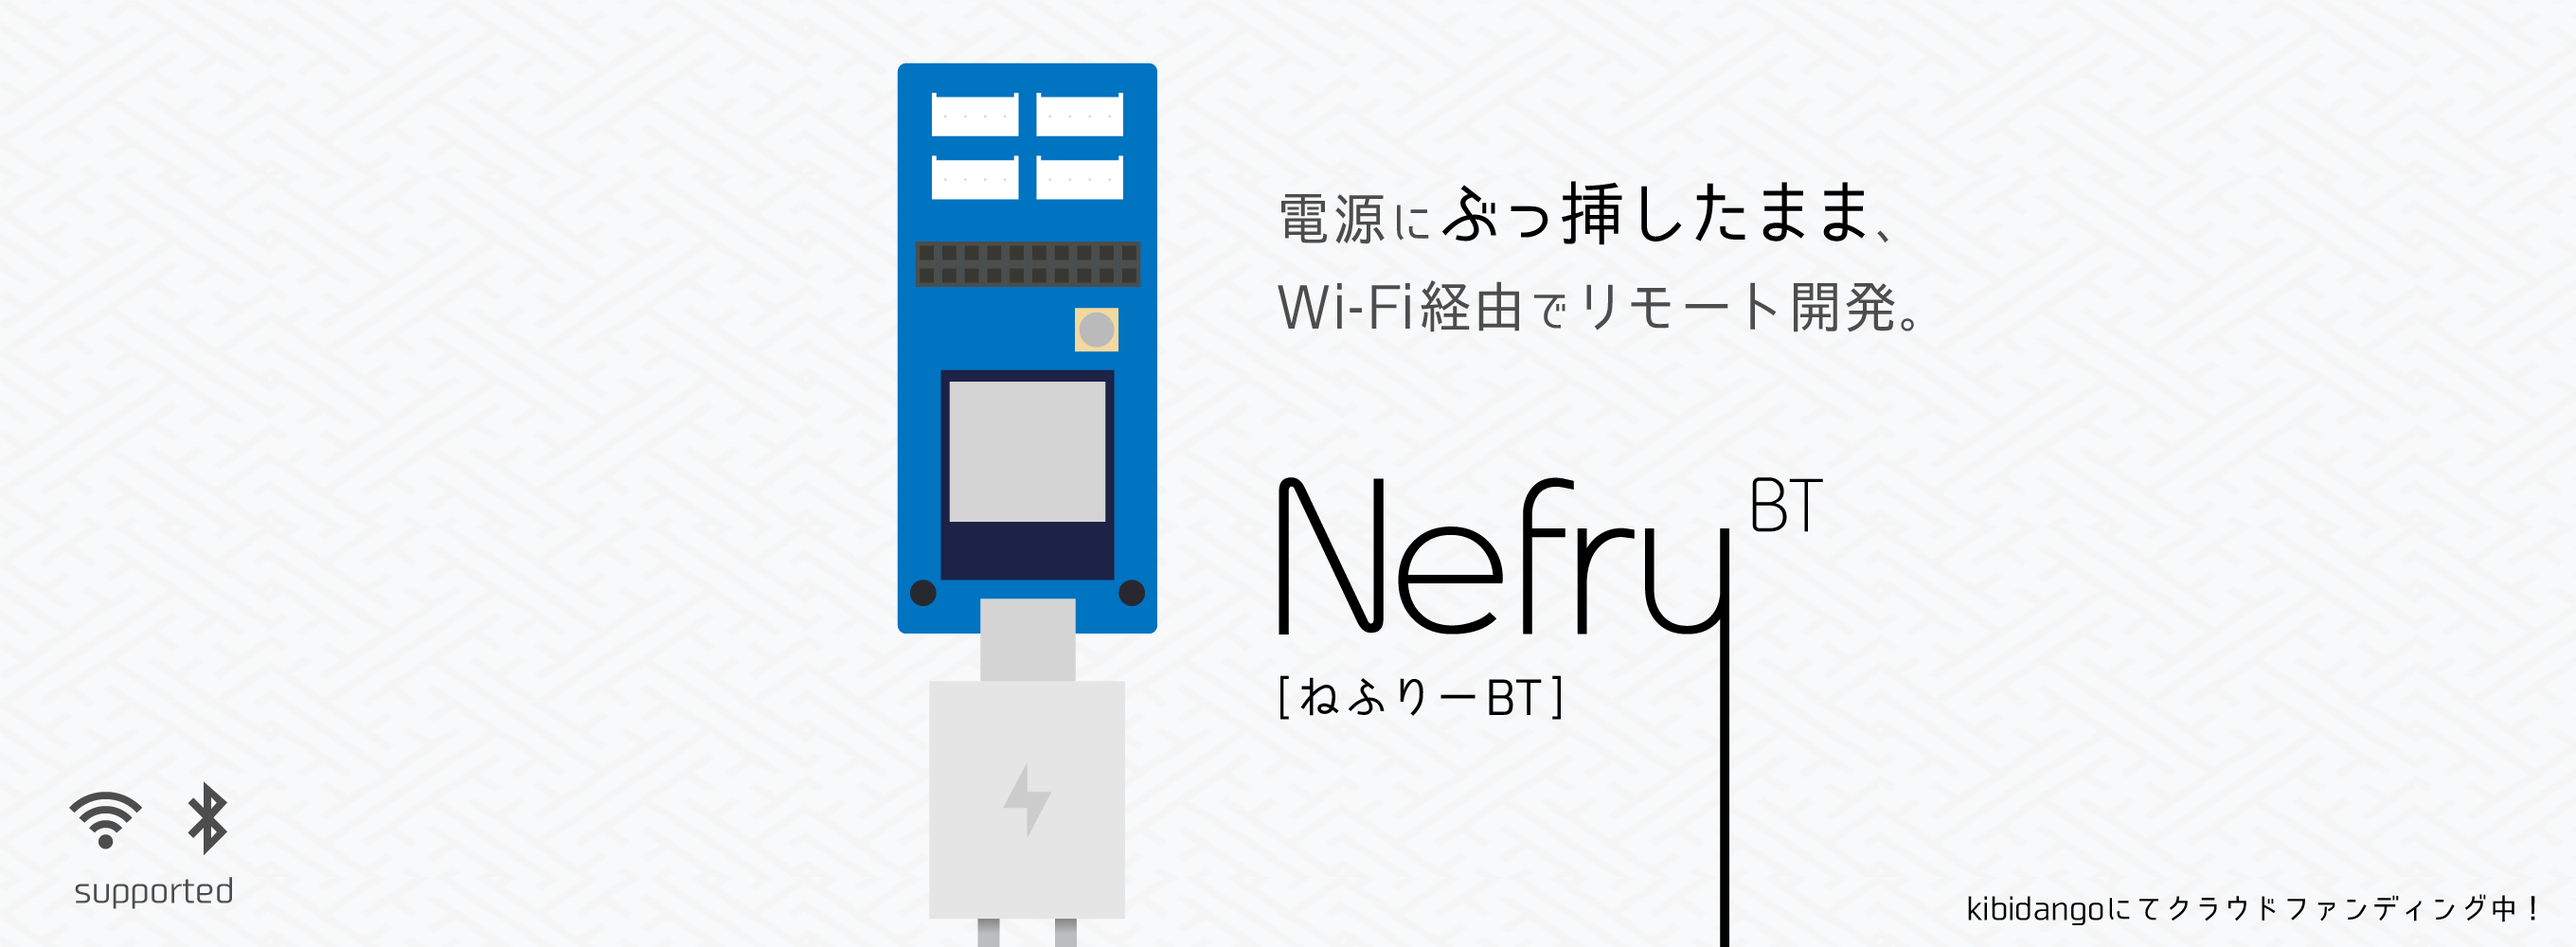
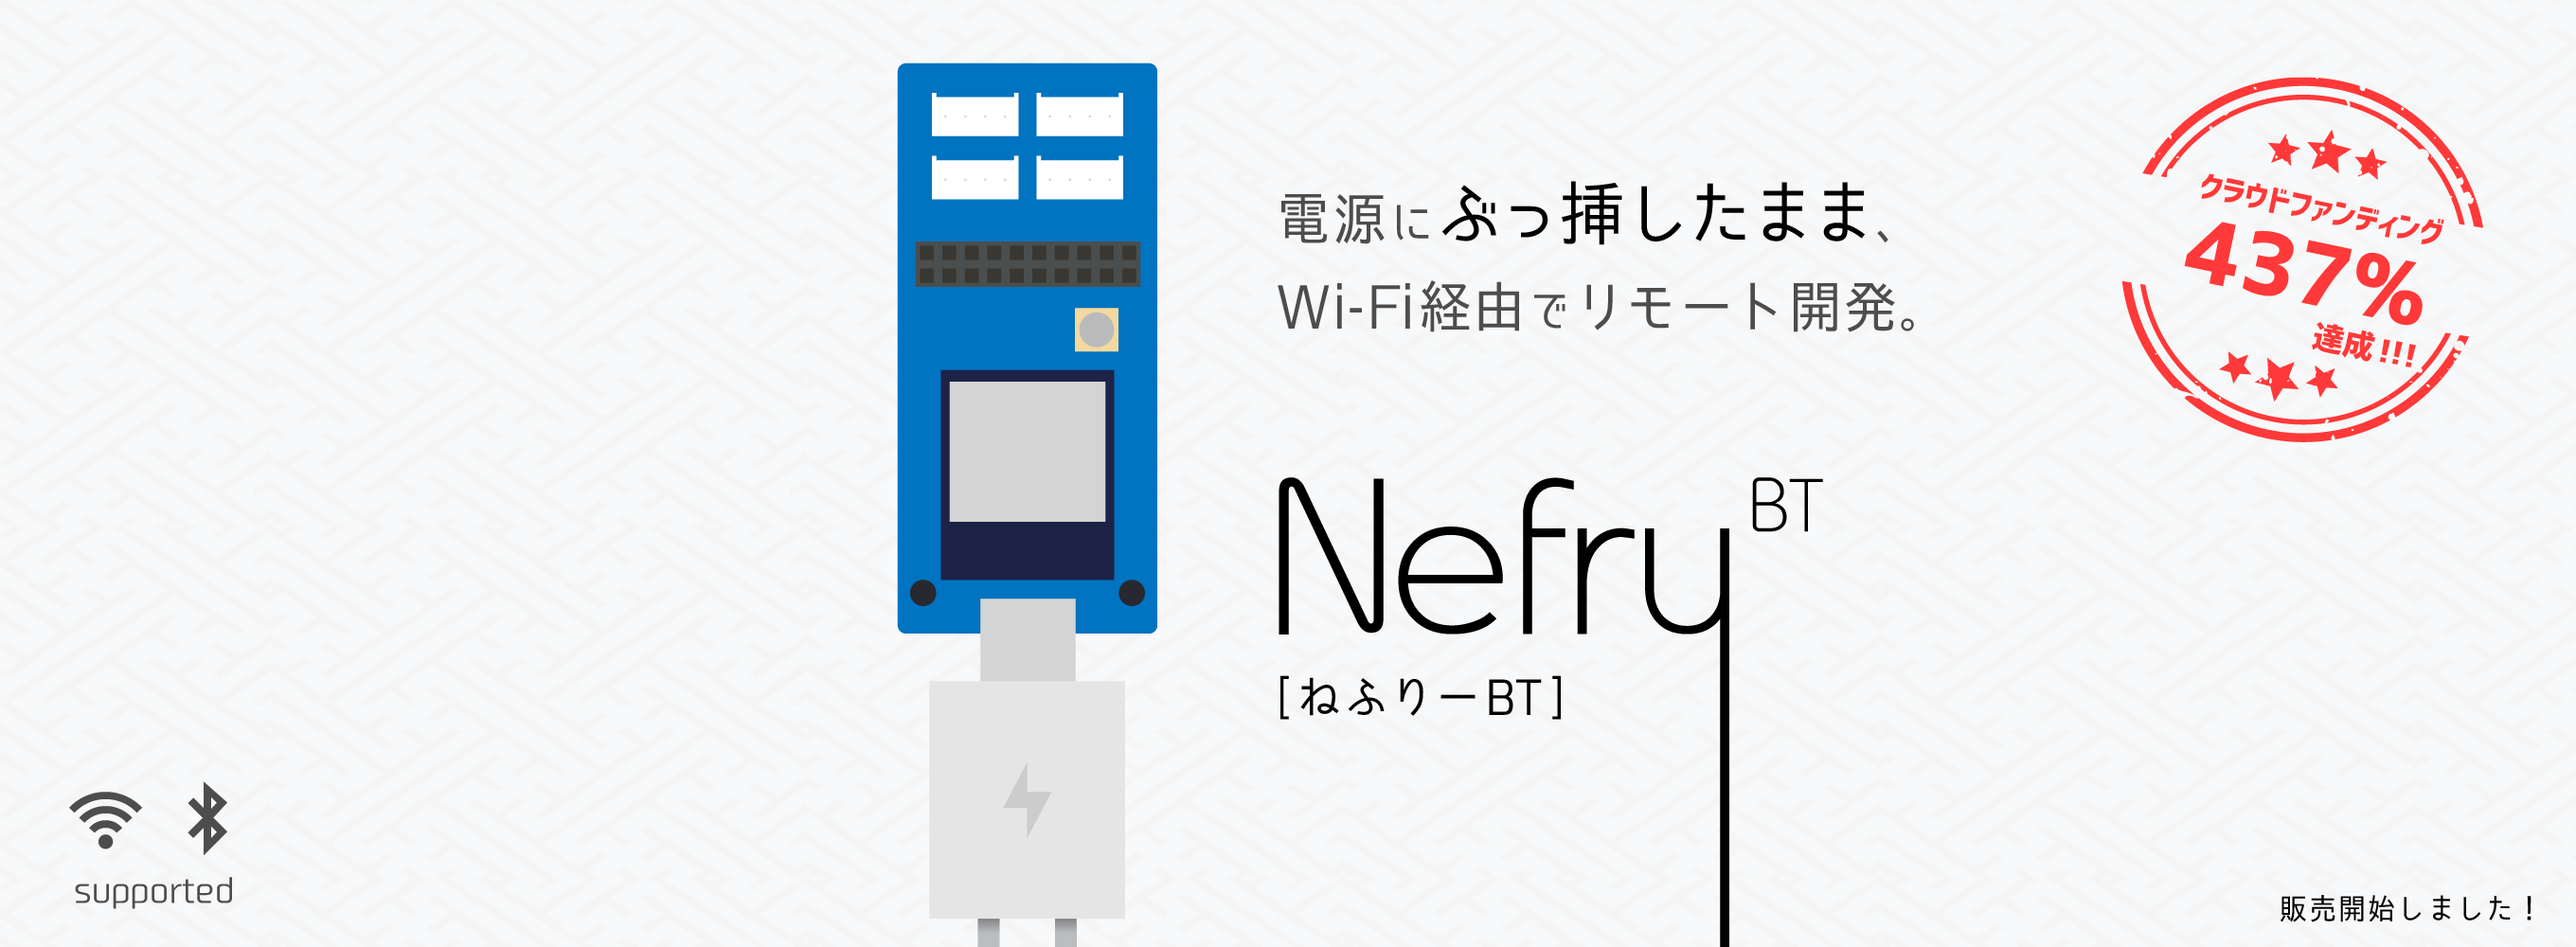
deploy

diff --git a/index.html b/index.html
@@ -223,7 +223,7 @@
         </a>
         <div class="top-hero--flex">
             <span class="top-hero--catch">最新のWi-Fi&BLE搭載！初心者向け小型IoTデバイス「Nefry BT」</span>
-            <a class="top-hero--cta" href="https://kibidango.com/513" target="_blank">クラウドファンディングで応援する</a>
+            <a class="top-hero--cta" href="/shop/nefry-bt-single/" target="_blank">購入する</a>
         </div>
     </section>
 
